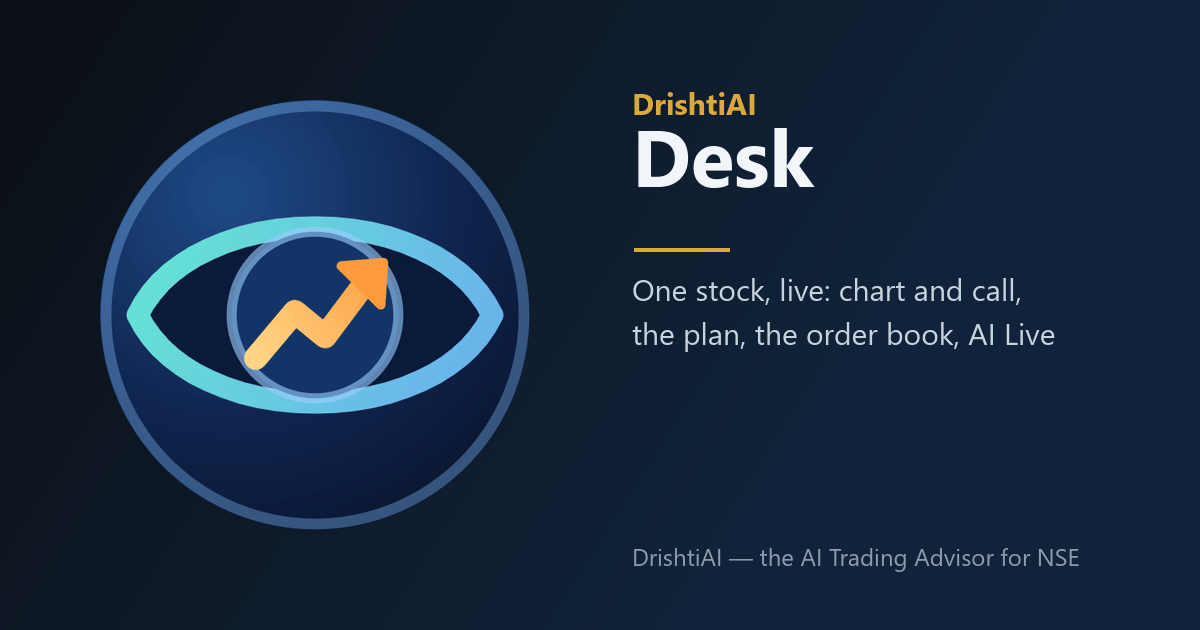
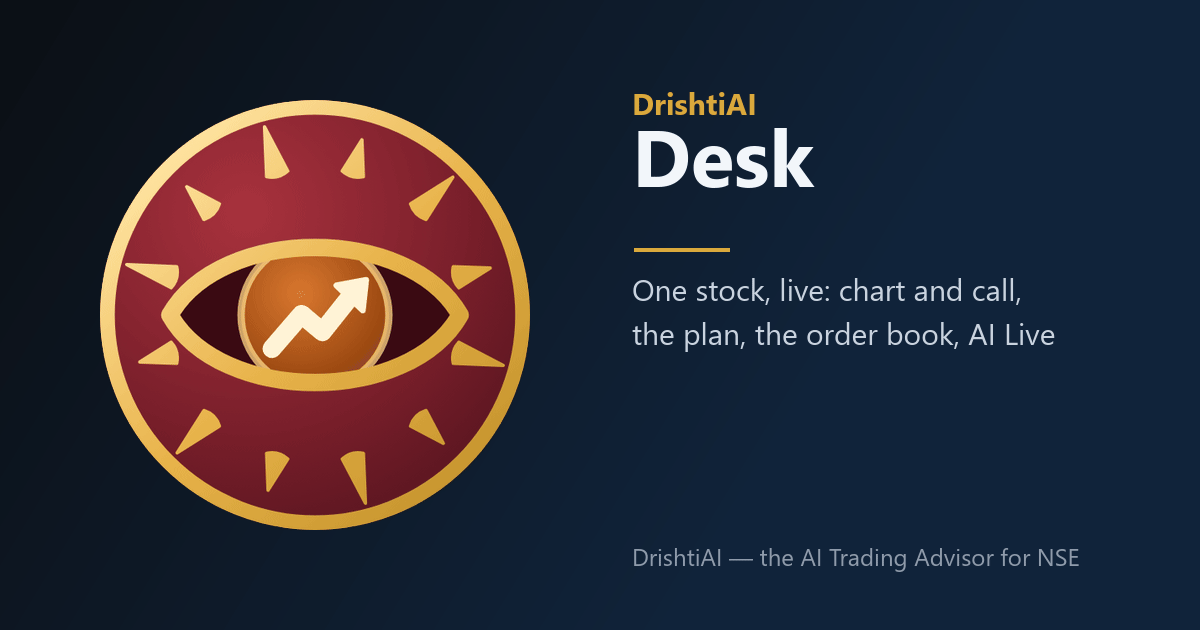
Redesigned Desk area

Changed region(s): [[0.0617, 0.1508, 0.4625, 0.8444]]

diff --git a/src/admin/stock/docs/content/platform.js b/src/admin/stock/docs/content/platform.js
@@ -275,7 +275,7 @@ export const PLATFORM = [
       { p: "On the dashboard, under **Settings & system**, the **Data & backups** tile shows all of this. The owner also gets a **download for every dataset** — the recorded tape (one session as a spreadsheet, or all of them), the NIFTY 100's 5-minute history (one stock or all), every forecast with its outcome, the journal's fills, the robot's trades, each learner's lessons, the models and the trading-skills file — and the **backups**: one file of the whole database, made by itself once a day after the close, kept on the server (the newest five unless you change it) and downloadable; **Back up now** makes one at once. Download one now and then: the copy on your own computer is the one that survives the server. A restore is done with the server stopped, from a terminal (`node server/restore.js <file> --dry-run`, then `--yes`), never from the browser." },
       { h: "Automation: what runs by itself, and the supervisor" },
       { p: "On the dashboard, under **Settings & system**, the **Automation** tile lists every system that runs by itself — the 15-minute forecaster, the opening-price forecast, the autopilot, the paper robot, the live scanner, the research runs, the Top 10, the set-up lab, the level learner, Indices, the day snapshot, price alerts — each with its schedule in plain words and whether it is on. Below them are the **catch-up duties** of the supervisor: every minute it checks whether anything was missed (an evening's learning skipped because the server or Zerodha was down, a history not up to date, forecasts never scored, the screener's Nifty 500 history never downloaded) and runs it by itself, heavy work only outside market hours. Each try is listed with its reason and result. Two things stay yours: the **Zerodha login** each trading morning (Zerodha does not allow software to renew a session), and **paid AI**, which runs only when you press a button unless you lift that on the AI page." },
-      { p: "The brand of the trading area is the **DrishtiAI logo** — an eye (drishti means “sight”) whose pupil is a rising price line — with the name **DrishtiAI** beside it and “AI Trading Advisor” under it: in the header of every private page and in the terminal’s top bar, on the dashboard, as TradeAI’s mark, as the browser tab’s icon and in the picture of every link preview. It is one drawing (public/drishti-logo.svg): change that file and it changes everywhere. The public website keeps the owner’s photo and name. The Panchmukhi Hanuman picture stays on the Mandir card. The **Mandir** card under Settings on the dashboard controls the audio, and a small **ॐ** button in the header of every page plays or pauses it. Lines of the Chalisa (Goswami Tulsidas) are shown on the card." },
+      { p: "The brand of the trading area is the **DrishtiAI logo** — the sun’s eye: an eye (drishti means “sight”) inside a sun of twelve rays, whose pupil is a rising price line, in ruby and gold — with the name **DrishtiAI** beside it and “AI Trading Advisor” under it: in the header of every private page and in the terminal’s top bar, on the dashboard, as TradeAI’s mark, as the browser tab’s icon and in the picture of every link preview. It is one drawing (public/drishti-logo.svg): change that file and it changes everywhere. The public website keeps the owner’s photo and name. The Panchmukhi Hanuman picture stays on the Mandir card. The **Mandir** card under Settings on the dashboard controls the audio, and a small **ॐ** button in the header of every page plays or pauses it. Lines of the Chalisa (Goswami Tulsidas) are shown on the card." },
       { h: "How it plays" },
       { ul: [
         "**Background sound**, at a very soft **5%** by default, on every private page, carrying on while you move between pages. No floating window: a video plays as sound too, and its picture shows only inside the Mandir card when you press **Show video**.",

diff --git a/src/admin/tradeai/TradeAI.jsx b/src/admin/tradeai/TradeAI.jsx
@@ -10,6 +10,7 @@
 // likely to ask now (your open positions first); every answer ends with related questions.
 
 import React, { useCallback, useEffect, useLayoutEffect, useMemo, useRef, useState } from "react";
+import { LOGO_SRC } from "../DrishtiLogo";
 import { api } from "../api";
 import { useAuth } from "../auth";
 import { useDialog } from "../dialog/DialogProvider";
@@ -543,7 +544,7 @@ function Answer({ m, fresh, last, onAsk, onRetry, busy }) {
   const conf = { low: 1, medium: 2, high: 3 }[r.confidence] || 1;
   return (
     <article className={`tai-msg tai-msg--ai ${fresh ? "is-fresh" : ""}`}>
-      <img className="tai-avatar" src="/drishti-logo.svg" alt="" width="30" height="30" />
+      <img className="tai-avatar" src={LOGO_SRC} alt="" width="30" height="30" />
       <div className="tai-ans">
         <Process meta={meta} />
         <Markdown text={done ? text : text.slice(0, n)} className={done ? "" : "is-typing"} />
@@ -706,7 +707,7 @@ function Working({ job }) {
   const route = job.route;
   return (
     <article className="tai-msg tai-msg--ai is-working" aria-live="polite">
-      <img className="tai-avatar is-spin" src="/drishti-logo.svg" alt="" width="30" height="30" />
+      <img className="tai-avatar is-spin" src={LOGO_SRC} alt="" width="30" height="30" />
       <div className="tai-ans">
         <p className="tai-shimmer">
           {now}
@@ -1338,7 +1339,7 @@ export default function TradeAI() {
             {!conv ? (
               <div className="tai-welcome">
                 <div className="tai-mark" aria-hidden="true">
-                  <img src="/drishti-logo.svg" alt="" width="64" height="64" />
+                  <img src={LOGO_SRC} alt="" width="64" height="64" />
                 </div>
                 <h1>
                   {greeting()}, {firstName(user)}

diff --git a/scripts/prerender.js b/scripts/prerender.js
@@ -109,10 +109,10 @@ function stripConflicting(template) {
 // its title and search-engine tags) before the admin app mounted.
 function writeAdminShell(template) {
   // the private area wears the DrishtiAI logo (public/drishti-logo.svg and its PNG copies)
-  const ICONS = `  <link rel="icon" type="image/svg+xml" href="/drishti-logo.svg" sizes="any" data-private="1" />
-    <link rel="icon" type="image/png" sizes="192x192" href="/drishti-192.png" data-private="1" />
-    <link rel="icon" type="image/png" sizes="512x512" href="/drishti-512.png" data-private="1" />
-    <link rel="apple-touch-icon" sizes="180x180" href="/drishti-apple-touch.png" data-private="1" />`;
+  const ICONS = `  <link rel="icon" type="image/svg+xml" href="/drishti-logo.svg?v=2" sizes="any" data-private="1" />
+    <link rel="icon" type="image/png" sizes="192x192" href="/drishti-192.png?v=2" data-private="1" />
+    <link rel="icon" type="image/png" sizes="512x512" href="/drishti-512.png?v=2" data-private="1" />
+    <link rel="apple-touch-icon" sizes="180x180" href="/drishti-apple-touch.png?v=2" data-private="1" />`;
   // the link preview (title, description, Open Graph, the X card) of the dashboard, between markers:
   // the server swaps the block for each page's own (server/previews.js), so a shared address previews
   // as that page; the private area stays noindex

diff --git a/src/admin/DrishtiLogo.jsx b/src/admin/DrishtiLogo.jsx
@@ -1,10 +1,12 @@
-// The DrishtiAI logo: an eye (drishti means "sight") whose pupil is a rising price path. ONE drawing —
+// The DrishtiAI logo: the sun's eye — an eye (drishti means "sight") inside a sun of twelve rays, whose pupil is a rising
+// price path, in ruby, copper and gold (28 Nov 2026; before it, the same eye on a dark-blue badge). ONE drawing —
 // public/drishti-logo.svg — used wherever the trading area shows its mark: the header of every private page, the
 // terminal's top bar, the /me page, TradeAI's avatar, the browser tab's icon and the link previews. Change the file and
-// it changes everywhere. It carries its own dark badge, so it reads the same on the dark theme and the light one.
+// it changes everywhere. It carries its own ruby badge with a gold rim, so it reads the same on the dark theme and the light one.
 import React from "react";
 
-export const LOGO_SRC = "/drishti-logo.svg";
+// ?v=… changes with each new drawing, so a browser that kept the old one for its hour fetches the new one at once
+export const LOGO_SRC = "/drishti-logo.svg?v=2";
 
 export default function DrishtiLogo({ size = 36, className = "", ...rest }) {
   return <img className={`dr-logo ${className}`.trim()} src={LOGO_SRC} alt="" width={size} height={size} decoding="async" draggable="false" {...rest} />;

diff --git a/src/admin/Login.test.js b/src/admin/Login.test.js
@@ -365,7 +365,7 @@ test("Create account is not offered when no mail server is set up", async () => 
 
 test("the Kite-style door keeps DrishtiAI's own mark, says it is not Zerodha, and gives every field a floating label", async () => {
   const { container } = render(door().ui);
-  expect(container.querySelector(".gate__badge img").getAttribute("src")).toBe("/drishti-logo.svg");
+  expect(container.querySelector(".gate__badge img").getAttribute("src")).toBe("/drishti-logo.svg?v=2");
   expect(container.querySelector(".gate__brand span").textContent).toBe("Privately owned by Vinay Kumar Tiwari. For personal use only.");
   expect(container.querySelector(".gate__notice p").textContent.replace(/ /g, " ")).toBe("Namaste, and thank you for visiting. This is a personal workspace of Vinay Kumar Tiwari, not a public service. If you have reached it by chance, please do not try to enter — you are most welcome on the public website instead.");
   expect(container.innerHTML).not.toMatch(/zerodha[^"]*\.(svg|png)|kite[^"]*\.(svg|png)/i); // none of Zerodha's artwork

diff --git a/src/admin/brandmark.css b/src/admin/brandmark.css
@@ -80,3 +80,31 @@
     display: none;
   }
 }
+
+/* the logo is ruby and gold since 28 Nov 2026 (public/drishti-logo.svg): its circle takes a soft gold, not the accent blue */
+.vk-brand__mark {
+  background: color-mix(in srgb, #c8962e 22%, transparent);
+  box-shadow: inset 0 0 0 1px color-mix(in srgb, #c8962e 45%, var(--line-2, var(--line)));
+}
+
+/* The name and the line under it take the logo's colours (28 Nov 2026, the owner's wish, from his own chart's favourable
+   colours): ruby for the name, saffron for "AI", deep gold for the line. On the dark theme the same family, lifted to read:
+   sandal for the name, gold for "AI", saffron for the line. Every pair reads at 4.5:1 or more on its background. */
+.adm .vk-brand__word {
+  color: #7a1f2b;
+}
+.adm .vk-brand__word b {
+  color: #b45309;
+}
+.adm .vk-brand__name small {
+  color: #8a6414;
+}
+.adm[data-desk="dark"] .vk-brand__word {
+  color: #f3e7d2;
+}
+.adm[data-desk="dark"] .vk-brand__word b {
+  color: #f0c56a;
+}
+.adm[data-desk="dark"] .vk-brand__name small {
+  color: #e8935a;
+}

diff --git a/src/admin/AdminApp.jsx b/src/admin/AdminApp.jsx
@@ -73,10 +73,10 @@ import "./ux/kite-pages.css"; // every workspace in Kite's layout (27 Nov 2026):
 // site's own link tags are put aside while this area is open and put back when it is left. (A page loaded straight
 // from /me already carries these in its own head: see scripts/prerender.js.)
 const PRIVATE_ICONS = [
-  ["icon", "any", "/drishti-logo.svg", "image/svg+xml"],
-  ["icon", "192x192", "/drishti-192.png"],
-  ["icon", "512x512", "/drishti-512.png"],
-  ["apple-touch-icon", "180x180", "/drishti-apple-touch.png"],
+  ["icon", "any", "/drishti-logo.svg?v=2", "image/svg+xml"],
+  ["icon", "192x192", "/drishti-192.png?v=2"],
+  ["icon", "512x512", "/drishti-512.png?v=2"],
+  ["apple-touch-icon", "180x180", "/drishti-apple-touch.png?v=2"],
 ];
 function usePrivateFavicon() {
   useEffect(() => {

diff --git a/src/admin/home-kite.css b/src/admin/home-kite.css
@@ -608,3 +608,8 @@
     transition: none;
   }
 }
+
+/* the logo beside the greeting wears a soft gold halo, matching the ruby-and-gold logo (28 Nov 2026) */
+.adm .hm.hm--kite .hm-top .hm-me__art {
+  box-shadow: 0 0 0 1px color-mix(in srgb, #c8962e 45%, var(--line)), 0 0 0 5px color-mix(in srgb, #c8962e 16%, transparent);
+}

diff --git a/README.md b/README.md
@@ -916,7 +916,7 @@ entries before 9:30, the pulse and AI Live needed four 5-minute bars (9:35), and
 
 **The evidence desk, model version 2, and the Now screen (2026-11-20; `server/market/evidence.js` `MODEL_VERSION = 2`, so it retrains by itself).** From a web search of published research, what had evidence and could be computed from our data was added, each as a measured witness: `eodMkt`, `eodLoser`, `eodWinner` (the last half-hour: Baltussen-Da-Lammers-Martens 2021; Soebhag-Baltussen-Da 2025 — they count back from `ctx.closeSlot`, the slot after the previous session's last bar, which `server/horizon.js` now puts in the forecaster's context, so a change in the exchange's closing time is followed), `jumpDown`, `jumpUp` (no-news jumps reverse: Xiao-Yin-Zhao 2020), and two live readings: `ofi` (order-flow imbalance over the 5 levels, Cont-Kukanov-Stoikov 2014, computed tick by tick in `market/flow.js` `FlowEngine` as `ofi60` / `ofi300`, in "average levels") and `pin` (expiry afternoon, the strike with the most open interest within 1%). **Regimes:** every bar witness has two inputs and two weights, in a trend and in a range (`trendAt`: efficiency ratio of the last 12 bars ≥ 0.4; `inputsOf(f, w, trend)`, `weightAt`), and its ledger is kept apart for each (ids with `@t` / `@r`); the card shows the record for the regime the stock is in. **Which comes first** (`KEYS = [1, 3, "tb"]`): a third question fitted like the two horizons — within 6 bars, does the high reach one usual 15-minute move above the close before the low reaches the same move below (`firstBarrier`; a bar holding both, or a session ending first, is not a label). "Usual" is `sloc`: the stock's long-run 5-minute move blended half and half with the last half-hour's realised moves. Shown on the card (`first`), kept and checked 30 minutes later (`actual.tb`), and turned to face a position's side in `forPositions` (`first.favour` / `first.against`). Not added, because the search found no evidence: the market-profile "80% rule", daily-range exhaustion as a reversal signal, round-number effects, VPIN. **Now** (`src/admin/stock/now/NowView.jsx`, tab id `now`, `GET /api/admin/market/now`): one live page — the market in tiles, the owner's positions with the evidence for or against each, every followed stock with its ticking price and its 5 and 15 minute calls (`Evidence.nowBoard`: one shared quote request for all their order books, kept 10 s), the checks so far and every automatic system's state. **Live everywhere:** `useTopics(topics, fn)` in `src/admin/live.js` re-reads a screen the moment the server publishes one of its topics; it now drives the screens that used to read once (Trade Analysis day lab / day book / snapshots, Indices, journal files, the automatic research card, the list of admins).
 
-**The brand: the DrishtiAI logo (`public/drishti-logo.svg`, `src/admin/DrishtiLogo.jsx`, `src/admin/BrandMark.jsx`; BRAND.md).** One SVG — an eye whose pupil is a rising price line — is the mark of the whole trading area: page headers and the terminal's top bar (logo, “DrishtiAI”, “AI Trading Advisor”), the dashboard's side column, TradeAI's avatar, the private area's tab icons (`drishti-*.png`) and the link-preview pictures (`scripts/og-images.js`). The public site keeps the owner's photo.
+**The brand: the DrishtiAI logo (`public/drishti-logo.svg`, `src/admin/DrishtiLogo.jsx`, `src/admin/BrandMark.jsx`; BRAND.md).** One SVG — the sun's eye: an eye inside a sun of twelve rays, its pupil a rising price line, ruby and gold (since 2026-11-28) — is the mark of the whole trading area: page headers and the terminal's top bar (logo, “DrishtiAI”, “AI Trading Advisor”), the dashboard's side column, TradeAI's avatar, the private area's tab icons (`drishti-*.png`) and the link-preview pictures (`scripts/og-images.js`). The public site keeps the owner's photo.
 
 **Per-person Zerodha accounts (`server/accounts.js`, `src/admin/ZerodhaAccounts.jsx`; /me → Zerodha accounts).** The owner switches on, per admin, trading on that person's **own** Kite ID. Zerodha ties a Kite Connect app to one client ID, so each person brings their own app (key + secret, redirect URL `<origin>/api/admin/accounts/kite/callback`) and logs in daily on Zerodha's page. Each allowed person gets their own `TradingService` (the same class) over a facade market (their Kite session, the site's prices), their own settings and a namespaced record store (`accounts/<slug>/…`): own funds, positions, orders, trading switch (off by default), limits, risk guard and audit. The account is chosen from the session only (`requireTrader` sets `req.trading`); the owner sees connected/not, never keys or positions, and cannot trade another's account; revoke or admin removal cuts access at once. Journal, Trade Analysis, the AI coach and the streamed live book stay owner-only. Secrets are encrypted with the settings key (`accounts/secrets.json`, excluded from downloads). The site's own Kite credentials and disconnect are owner-only. `GET /api/admin/accounts`, `PUT /api/admin/accounts/people/:email`, `GET|PUT|DELETE /api/admin/accounts/me[/kite]`, `GET /api/admin/accounts/kite/login|callback`.
 

diff --git a/BRAND.md b/BRAND.md
@@ -10,12 +10,12 @@ Trading, Telegram alerts, the Mandir, the Document — is called **DrishtiAI**.
 | With its line | **DrishtiAI — the AI Trading Advisor for NSE** (an em dash with a space on each side) |
 | Short header (narrow screens) | **DrishtiAI — AI Trading Advisor**, then **DrishtiAI** |
 | Meaning | Drishti (दृष्टि) means “sight” |
-| Logo | An eye (drishti = sight) whose pupil is a rising price line, on its own dark-blue round badge: `public/drishti-logo.svg` — ONE drawing, used everywhere in the trading area through `src/admin/DrishtiLogo.jsx`. Since 20 Nov 2026 it replaces the owner's photo there |
-| Brand in a header | the logo, **DrishtiAI** (the “AI” in the accent colour) and under it the small spaced line **AI Trading Advisor** (`src/admin/BrandMark.jsx`, the line is `BRAND.line`); on a phone the logo alone |
+| Logo | The sun's eye: an eye (drishti = sight) inside a sun of twelve rays, whose pupil is a rising price line, on its own ruby round badge with a gold rim (ruby #7a1f2b, copper #8a3c08, gold #e9b44c/#c8962e; since 28 Nov 2026, chosen by the owner's wish from his own chart's favourable colours; before it, a dark-blue badge): `public/drishti-logo.svg` — ONE drawing, used everywhere in the trading area through `src/admin/DrishtiLogo.jsx`. Since 20 Nov 2026 it replaces the owner's photo there |
+| Brand in a header | the logo, **DrishtiAI** (since 28 Nov 2026 in the logo's colours: light theme name ruby #7a1f2b, “AI” saffron #b45309, line gold #8a6414; dark theme name sandal #f3e7d2, “AI” gold #f0c56a, line saffron #e8935a; `brandmark.css`) and under it the small spaced line **AI Trading Advisor** (`src/admin/BrandMark.jsx`, the line is `BRAND.line`); on a phone the logo alone |
 | Where the logo appears | the header of every private page, the terminal's top bar, the dashboard's side column, TradeAI's mark and avatar, the tab icon, the link previews |
 | Favicon (private area) | `drishti-logo.svg` with PNG copies `drishti-192.png`, `drishti-512.png`, `drishti-apple-touch.png` (and `drishti-32.png`); set in `src/admin/AdminApp.jsx` and `scripts/prerender.js` |
 | Link previews (private area) | `public/img/og/<page>.png`, the logo beside the page name, drawn by `scripts/og-images.js` from `drishti-512.png` |
-| After changing the logo | redraw the PNG copies from the SVG (any browser or image tool; 32, 192, 512 px round, and 180 px on a square of `#0c1c3e` for Apple), then run `node scripts/og-images.js` |
+| After changing the logo | redraw the PNG copies from the SVG (any browser or image tool; 32, 192, 512 px round, and 180 px on a square of `#4c111b` for Apple), then run `node scripts/og-images.js` |
 | Browser tab | `DrishtiAI` |
 | Files it names | `DrishtiAI-complete-guide.docx`, `DrishtiAI-AI-Engine.docx` |
 
